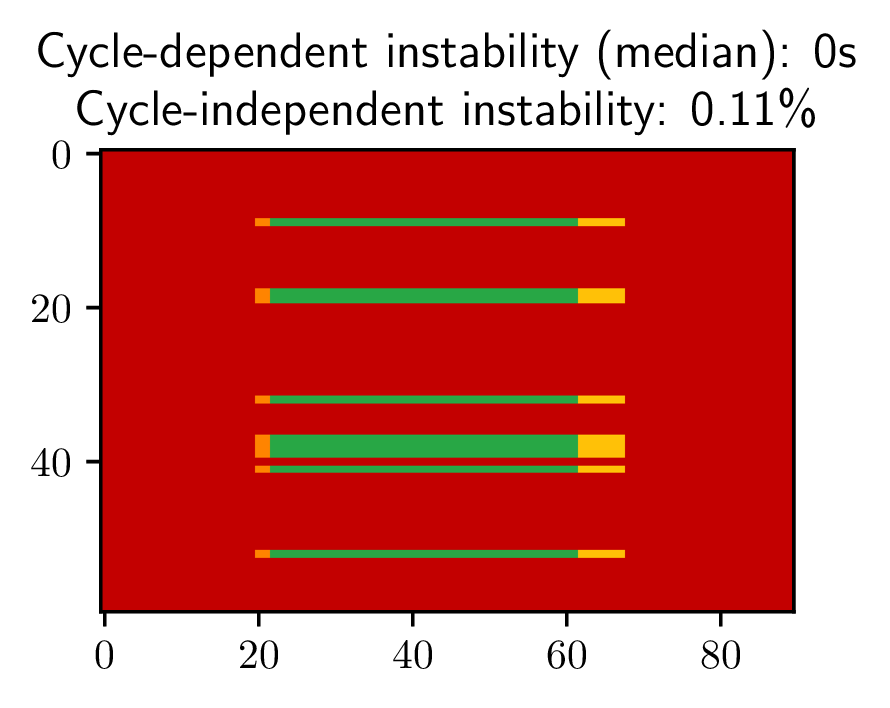
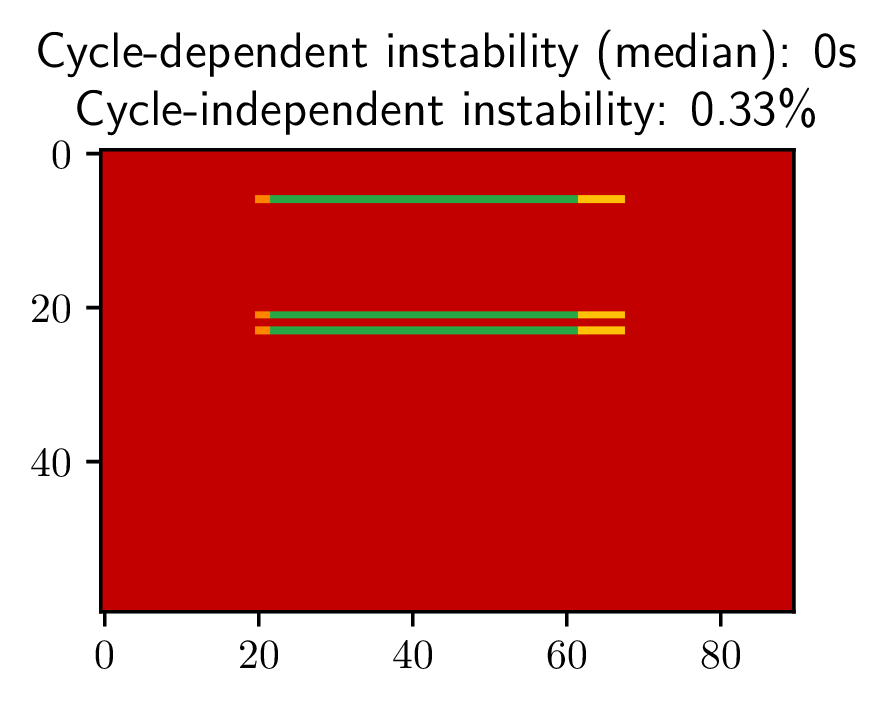
Update on Overleaf.

diff --git a/sections/prediction.tex b/sections/prediction.tex
@@ -181,21 +181,23 @@ If there are more reoccurring patterns in the wait time, the cycle-independent i
 \hline
 & \footnotesize{\textbf{Low cycle-dependent instability}} & \footnotesize{\textbf{High cycle-dependent instability}} \\
 \hline
-\rotatebox{90}{\footnotesize{\textbf{    High cycle-independent instability}}} & B \includegraphics[width=0.42\linewidth]{images/predictability-cycles-1.pdf} & D \includegraphics[width=0.42\linewidth]{images/predictability-cycles-2.pdf} \\
+\rotatebox{90}{\footnotesize{\textbf{\hspace{0.18cm} High cycle-independent instability}}} & B \includegraphics[width=0.42\linewidth]{images/predictability-cycles-1.pdf} & D \includegraphics[width=0.42\linewidth]{images/predictability-cycles-2.pdf} \\
 \hline
-\rotatebox{90}{\footnotesize{\textbf{    Low cycle-independent instability}}} & A \includegraphics[width=0.42\linewidth]{images/predictability-cycles-3.pdf} & C \includegraphics[width=0.42\linewidth]{images/predictability-cycles-4.pdf} \\
+\rotatebox{90}{\footnotesize{\textbf{\hspace{0.18cm} Low cycle-independent instability}}} & A \includegraphics[width=0.42\linewidth]{images/predictability-cycles-3.pdf} & C \includegraphics[width=0.42\linewidth]{images/predictability-cycles-4.pdf} \\
 \hline
 \end{tabular}
 \caption{.}
 \label{fig:types-of-instability}
 \end{figure}
 
-\Cref{fig:types-of-instability} provides a systematic model for the types of instability that can be measured with our two metrics. In case A, the green phases are both aligned with the cycle time and at relatively constant distances from each other. Thus, both the cycle-independent and cycle-dependent instability is low. In case B, the green phase is only occasionally switched upon detection of a vehicle, cyclist, or pedestrian. As a result, the cycle-dependent instability is low since all cycles are very similar to each other. However, since the waiting time between green phases is highly variable, the cycle-independent instability is high. Case C highlights the scenario that is not captured well by the cycle-dependent metric alone. A "staircase" pattern is present, meaning that the green time is shifted in a constant rhythm that is not aligned with the cycle time, resulting in a high cycle-dependent instability but a low cycle-independent instability. Case C is a weakness of our prediction method and needs a thorough investigation. Finally, case D contains the least predictable switching behavior, which expresses both cycle-dependent and independent instability. 
+\Cref{fig:types-of-instability} provides a systematic model for the types of instability that can be measured with our two metrics. In case A, the green phases are both aligned with the cycle time and at relatively constant distances from each other. Thus, both the cycle-independent and cycle-dependent instability is low. In case B, the green phase is only occasionally switched upon detection of a vehicle, cyclist, or pedestrian. As a result, the cycle-dependent instability is low since all cycles are very similar to each other. However, since the waiting time between green phases is highly variable, the cycle-independent instability is high. Case C highlights the scenario that is not captured well by the cycle-dependent metric alone. A "staircase" pattern is present, meaning that the green time is shifted in a constant rhythm that is not aligned with the cycle time, resulting in a high cycle-dependent instability but a low cycle-independent instability. Finally, case D contains the least predictable switching behavior, which expresses both cycle-dependent and independent instability. 
 
-Locating the recorded histories of traffic lights on this 2-dimensional scale will help us determine which kinds of patterns are present. It also helps us find the number of cases in which our prediction method is inadequate, especially with respect to cases C and D. In general, the more cases are similar to A and B, the better for our chosen probabilistic prediction method. Finally, we can explore these metrics in other dimensions, such as over time in a week, to gain additional insights about predictability.
+Locating traffic lights on this 2-dimensional scale will help us determine which kinds of patterns are present. It also helps us find the number of cases in which our prediction method is inadequate, especially with respect to cases C and D. In general, the more cases are similar to A and B, the better for our chosen probabilistic prediction method. Finally, we can explore these metrics in other dimensions, such as over time in a week, to gain additional insights about predictability.
 
 \begin{Summary}[Summary of Methods]
-The designed prediction infrastructure makes use of Hamburg's centralized Traffic Light Data platform and reuses the existing probabilistic prediction method  \cite{pape_untersuchung_2012, protschky_extensive_2014, protschky_adaptive_2014} guaranteeing scalability in addition to robustness to latencies and data errors. Interoperability with platforms without the availability of intersection-controller-level predictions (as with SPaT messages) is also given since the prediction algorithm only relies on the availability of traffic light colors and cycle timing information. Additional measures are implemented that detect and discard erroneous data. Through a monitoring system the prediction quality can be analyzed and systematic issues identified. Information about the prediction availability is forwarded to the user to enhance the explainability of outages. In addition to this monitoring system, an adaptivity analysis is conducted to explore the traffic-adaptiveness of traffic lights. This adaptivity analysis reuses the traffic light data infrastructure for direct measurement of the adaptiveness instead of extrapolating on the reported number of 90.7\% adaptive traffic lights. The adaptiveness is measured with two metrics in conjunction: the Distance metric incorporating the absolute shift between traffic light cycles, and the Shift metric that measures the directionality in the traffic light switching patterns.
+The designed prediction infrastructure makes use of Hamburg's centralized Traffic Light Data platform and reuses the existing probabilistic prediction method  \cite{pape_untersuchung_2012, protschky_extensive_2014, protschky_adaptive_2014} guaranteeing scalability in addition to robustness to latencies and data errors. Interoperability with platforms without the availability of intersection-controller-level predictions (as with SPaT messages) is also given since the prediction algorithm only relies on the availability of traffic light colors and cycle timing information. Additional measures are implemented that detect and discard erroneous data. Through a monitoring system the prediction quality can be analyzed and systematic issues identified. Information about the prediction availability is forwarded to the user to enhance the explainability of outages. 
+
+In addition to this monitoring system, a predictability analysis is conducted to explore the traffic-adaptiveness of traffic lights. This predictability analysis reuses the established traffic light data infrastructure in Hamburg to record and analyze traffic light cycles. Through a direct measurement of the observed switching patterns a more direct view of the predictability is provided than given in previous studies. The adaptiveness is measured with two metrics in conjunction: the cycle-dependent instability metric incorporating the discrepancy between traffic light cycles and the cycle-independent instability metric that measures the uniqueness between wait times.
 \end{Summary}
 
 \section{Results}
